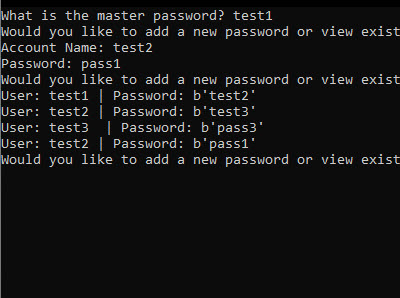
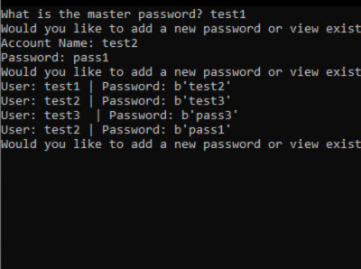
fixed typo organizational resized pictures

diff --git a/index.html b/index.html
@@ -67,7 +67,7 @@
 							<section class="box style1">
 								<span class="icon solid featured fa-users"></span>
 								<h3>Team Collaboration</h3>
-								<p>Communicate and work amongst cross-sectional teams to accomplish orginizational goals.</p>
+								<p>Communicate and work amongst cross-sectional teams to accomplish organizational goals.</p>
 							</section>
 						</div>
 					</div>
